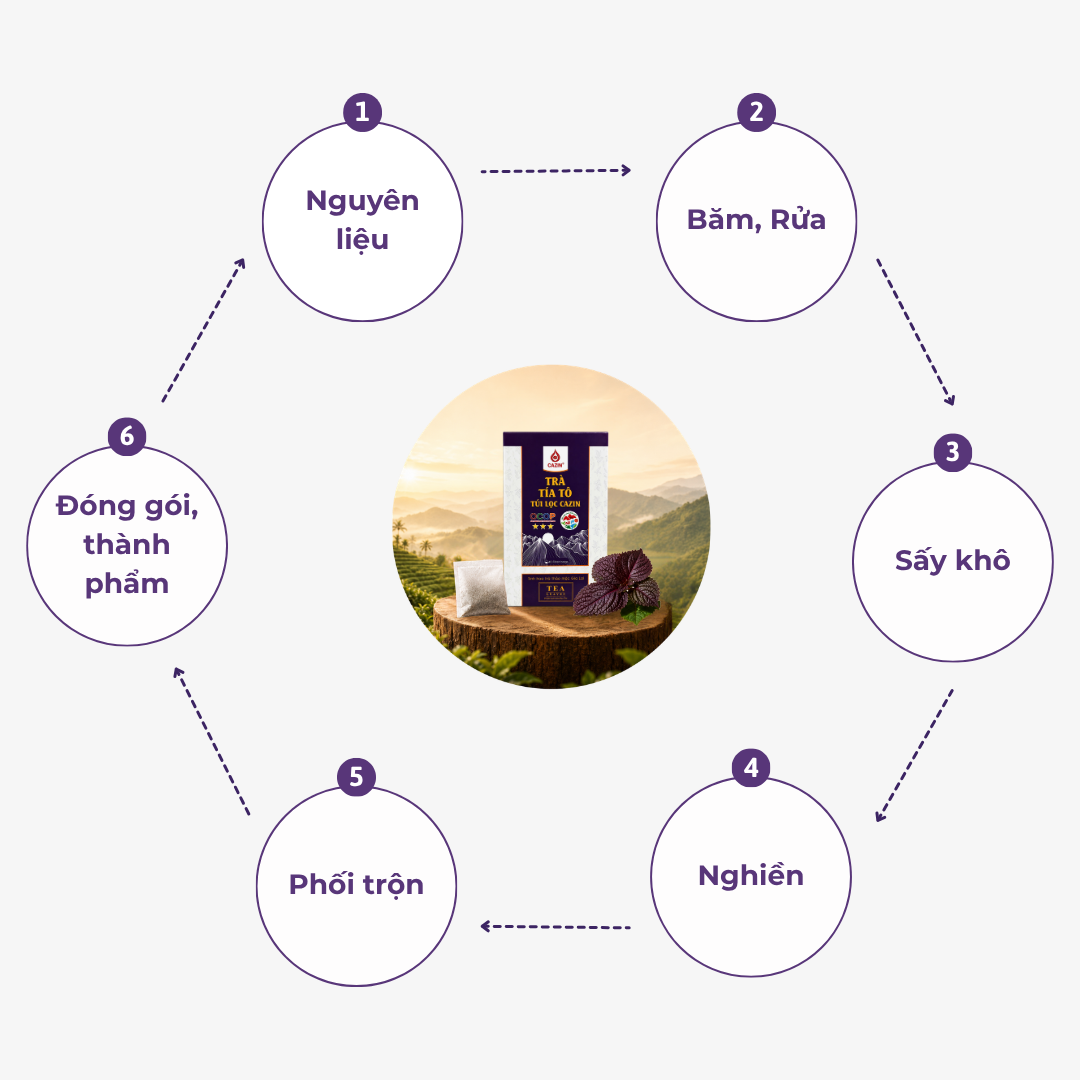
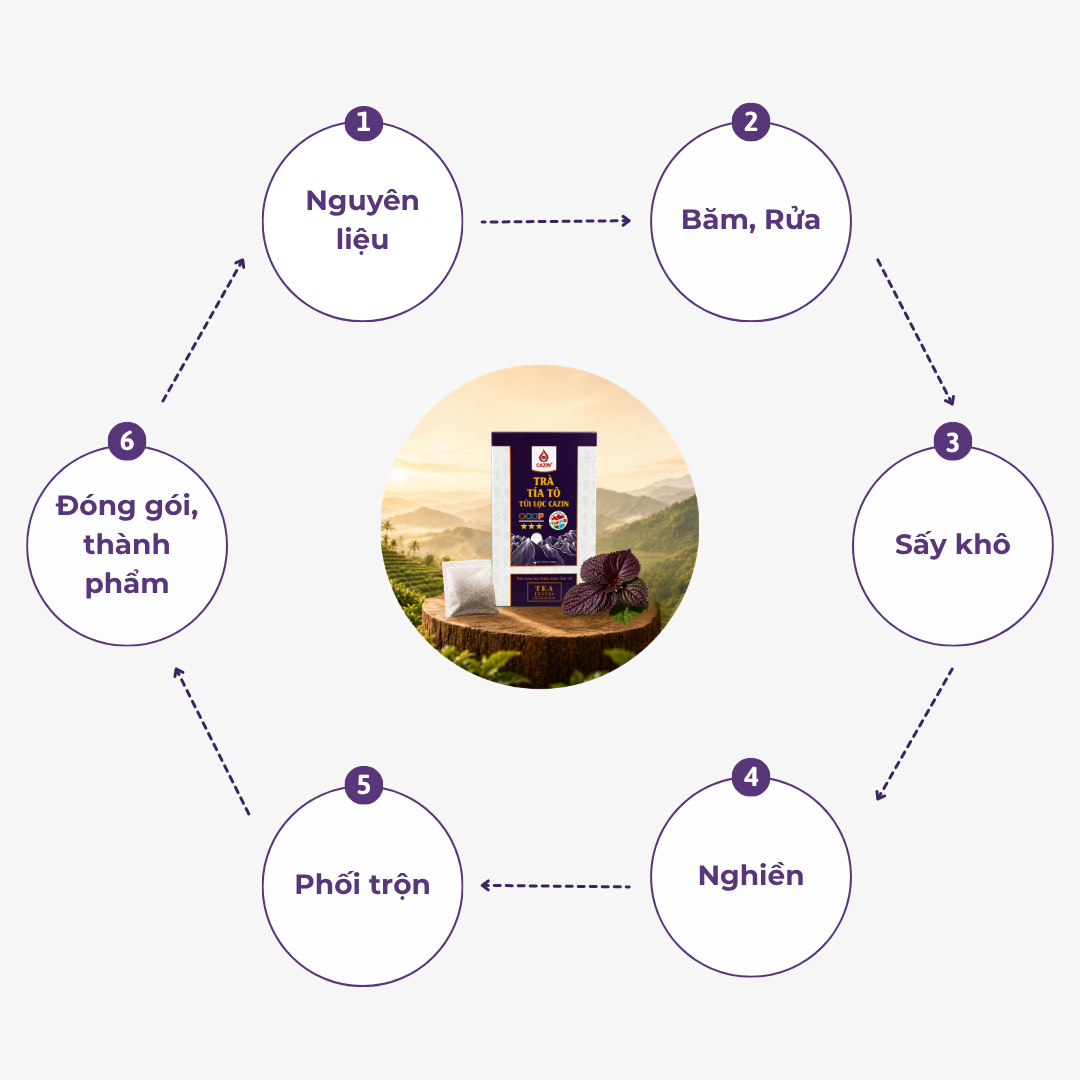
deploy 9

diff --git a/src/components/ProductInfo.tsx b/src/components/ProductInfo.tsx
@@ -4,116 +4,188 @@ import React from "react";
 
 export default function ProductInfo() {
   return (
-    <section className="w-full px-5 py-6 md:py-10 animate-fade-in-up" style={{ animationDelay: '100ms', animationFillMode: 'both' }}>
+    <section
+      className="w-full px-5 py-6 md:py-10 animate-fade-in-up"
+      style={{ animationDelay: "100ms", animationFillMode: "both" }}
+    >
       <div className="max-w-7xl mx-auto">
-        
         {/* Khối 2: Thông tin cơ bản */}
         <div className="mb-8">
           <h1 className="text-2xl md:text-4xl font-bold text-primary mb-4">
             TRÀ TÍA TÔ TÚI LỌC CAZIN
           </h1>
-          
+
           <div className="mb-8">
             <p className="text-textMain font-normal not-italic text-base md:text-[17px] leading-relaxed text-justify mb-3">
-              Trà tía tô túi lọc CAZIN là sự kết tinh từ nguồn dược liệu tuyển chọn tại Gia Lai, kết hợp hài hòa giữa tía tô, sả và gừng, mang hương thơm thanh dịu và vị ấm tự nhiên đặc trưng. Được chế biến từ 100% nguyên liệu tự nhiên, không hương liệu, không chất bảo quản, sản phẩm mang đến trải nghiệm thưởng trà tiện lợi và chất lượng.
+              Trà tía tô túi lọc CAZIN là sự kết tinh từ nguồn dược liệu tuyển
+              chọn tại Gia Lai, kết hợp hài hòa giữa tía tô, sả và gừng, mang
+              hương thơm thanh dịu và vị ấm tự nhiên đặc trưng. Được chế biến từ
+              100% nguyên liệu tự nhiên, không hương liệu, không chất bảo quản,
+              sản phẩm mang đến trải nghiệm thưởng trà tiện lợi và chất lượng.
             </p>
             <p className="text-textMain font-normal not-italic text-base md:text-[17px] leading-relaxed text-justify">
-              Mỗi tách trà không chỉ lưu giữ tinh túy của thảo mộc Việt, mà còn gửi gắm giá trị của vùng đất Gia Lai và mang tinh hoa trà thảo mộc Gia Lai đến với người tiêu dùng.
+              Mỗi tách trà không chỉ lưu giữ tinh túy của thảo mộc Việt, mà còn
+              gửi gắm giá trị của vùng đất Gia Lai và mang tinh hoa trà thảo mộc
+              Gia Lai đến với người tiêu dùng.
             </p>
           </div>
 
           {/* Thành phần */}
           <div className="mb-6">
-            <h3 className="font-semibold text-primary mb-2 text-lg">Thành phần:</h3>
-            <p className="text-textMain text-base">Tía tô 80% (thân và lá), Sả 10%, Gừng 10%.</p>
+            <h3 className="font-semibold text-primary mb-2 text-lg">
+              Thành phần:
+            </h3>
+            <p className="text-textMain text-base">
+              Tía tô 80% (thân và lá), Sả 10%, Gừng 10%.
+            </p>
           </div>
 
           {/* Grid thông số */}
           <div className="grid grid-cols-2 md:grid-cols-3 gap-4 bg-white/50 p-6 rounded-2xl shadow-md hover:shadow-lg transition-shadow duration-300 border border-white/50">
             <div className="flex flex-col">
-              <span className="text-base font-semibold text-primary mb-1">Khối lượng tịnh</span>
+              <span className="text-base font-semibold text-primary mb-1">
+                Khối lượng tịnh
+              </span>
               <span className="text-textMain text-[15px] font-normal">80g</span>
             </div>
             <div className="flex flex-col">
-              <span className="text-base font-semibold text-primary mb-1">Hạn sử dụng</span>
-              <span className="text-textMain text-[15px] font-normal">12 tháng</span>
+              <span className="text-base font-semibold text-primary mb-1">
+                Hạn sử dụng
+              </span>
+              <span className="text-textMain text-[15px] font-normal">
+                12 tháng
+              </span>
             </div>
             <div className="col-span-2 md:col-span-1 flex flex-col pt-2 md:pt-0 border-t md:border-t-0 md:border-l border-primary/10 md:pl-4">
-              <span className="text-base font-semibold text-primary mb-1">Quy cách</span>
-              <span className="text-textMain text-[15px] font-normal">40 túi lọc × 2g/hộp</span>
+              <span className="text-base font-semibold text-primary mb-1">
+                Quy cách
+              </span>
+              <span className="text-textMain text-[15px] font-normal">
+                40 túi lọc × 2g/hộp
+              </span>
             </div>
             <div className="col-span-2 md:col-span-3 flex flex-col pt-2 border-t border-primary/10">
-              <span className="text-base font-semibold text-primary mb-1">Chất liệu bao bì</span>
-              <span className="text-textMain text-[15px] font-normal">Túi lọc giấy; hộp giấy cứng đảm bảo an toàn dùng trong thực phẩm.</span>
+              <span className="text-base font-semibold text-primary mb-1">
+                Chất liệu bao bì
+              </span>
+              <span className="text-textMain text-[15px] font-normal">
+                Túi lọc giấy; hộp giấy cứng đảm bảo an toàn dùng trong thực
+                phẩm.
+              </span>
             </div>
           </div>
         </div>
 
         {/* Khối 3: Thông tin chi tiết (Static List) */}
         <div className="flex flex-col space-y-8 mt-10">
-          
           {/* 1. Thông tin nguyên liệu */}
           <div>
-            <h3 className="font-semibold text-lg text-primary mb-3">Thông tin nguyên liệu</h3>
+            <h3 className="font-semibold text-lg text-primary mb-3">
+              Thông tin nguyên liệu
+            </h3>
             <p className="text-textMain text-[15px] leading-relaxed">
-              Tía tô, sả và gừng được thu mua từ các vùng nguyên liệu tại Canh Vinh, An Khê và các vùng lân cận thuộc tỉnh Gia Lai.
+              Tía tô, sả và gừng được thu mua từ các vùng nguyên liệu tại Canh
+              Vinh, An Khê và các vùng lân cận thuộc tỉnh Gia Lai.
             </p>
           </div>
 
           {/* 2. Công dụng nổi bật */}
           <div>
-            <h3 className="font-semibold text-lg text-primary mb-3">Công dụng nổi bật</h3>
+            <h3 className="font-semibold text-lg text-primary mb-3">
+              Công dụng nổi bật
+            </h3>
             <ul className="list-none p-0 m-0 space-y-2">
-              <li className="text-textMain text-[15px]">Tăng cường sức đề kháng</li>
+              <li className="text-textMain text-[15px]">
+                Tăng cường sức đề kháng
+              </li>
               <li className="text-textMain text-[15px]">Giảm ho, tiêu đờm</li>
               <li className="text-textMain text-[15px]">Dưỡng nhan, sáng da</li>
               <li className="text-textMain text-[15px]">Hỗ trợ gout</li>
-              <li className="text-textMain text-[15px]">Giải độc gan, giảm mỡ máu</li>
+              <li className="text-textMain text-[15px]">
+                Giải độc gan, giảm mỡ máu
+              </li>
             </ul>
           </div>
 
           {/* 3. Hướng dẫn sử dụng */}
           <div>
-            <h3 className="font-semibold text-lg text-primary mb-3">Hướng dẫn sử dụng</h3>
+            <h3 className="font-semibold text-lg text-primary mb-3">
+              Hướng dẫn sử dụng
+            </h3>
             <div className="space-y-3">
-              <p className="text-textMain text-[15px]">Dùng 1 túi trà 2g cho mỗi lần pha.</p>
-              
+              <p className="text-textMain text-[15px]">
+                Dùng 1 túi trà 2g cho mỗi lần pha.
+              </p>
+
               <div>
-                <p className="text-textMain text-[15px] font-semibold mb-1">Uống nóng</p>
-                <p className="text-textMain text-[15px]">Ngâm 01 túi trà với 120ml nước nóng trong 5 phút.</p>
+                <p className="text-textMain text-[15px] font-semibold mb-1">
+                  Uống nóng
+                </p>
+                <p className="text-textMain text-[15px]">
+                  Ngâm 01 túi trà với 120ml nước nóng trong 5 phút.
+                </p>
               </div>
-              
+
               <div>
-                <p className="text-textMain text-[15px] font-semibold mb-1">Uống lạnh</p>
-                <p className="text-textMain text-[15px]">Ngâm 01 túi trà với 90ml nước nóng trong 5 phút, thêm đá tùy khẩu vị.</p>
+                <p className="text-textMain text-[15px] font-semibold mb-1">
+                  Uống lạnh
+                </p>
+                <p className="text-textMain text-[15px]">
+                  Ngâm 01 túi trà với 90ml nước nóng trong 5 phút, thêm đá tùy
+                  khẩu vị.
+                </p>
               </div>
             </div>
           </div>
 
           {/* 4. Lưu ý & Bảo quản */}
           <div>
-            <h3 className="font-semibold text-lg text-primary mb-3">Lưu ý & Bảo quản</h3>
-            <div className="space-y-2">
+            <h3 className="font-semibold text-lg text-primary mb-3">
+              Lưu ý & Bảo quản
+            </h3>
+            <div className="space-y-3">
+              {/* Phần Bảo quản */}
               <p className="text-textMain text-[15px]">
-                <span className="font-semibold">Bảo quản:</span> Để nơi khô ráo, thoáng mát.
+                <span className="font-semibold">Bảo quản:</span> Để nơi khô ráo,
+                thoáng mát.
               </p>
-              <p className="text-textMain text-[15px]">
-                <span className="font-semibold">Khuyến cáo:</span> Không sử dụng khi sản phẩm có dấu hiệu ẩm mốc, biến màu hoặc có mùi lạ. Không sử dụng hương liệu, chất bảo quản.
-              </p>
+
+              {/* Phần Khuyến cáo thiết kế lại với dạng list */}
+              <div className="text-textMain text-[15px]">
+                <span className="font-semibold">Khuyến cáo:</span>
+                <ul className="list-disc pl-5 mt-1 space-y-1">
+                  <li>
+                    Không sử dụng khi sản phẩm có dấu hiệu ẩm mốc, biến màu hoặc
+                    có mùi lạ.
+                  </li>
+                  <li>Không sử dụng hương liệu, chất bảo quản.</li>
+                </ul>
+              </div>
             </div>
           </div>
 
           {/* 5. Thông tin truy xuất */}
           <div>
-            <h3 className="font-semibold text-lg text-primary mb-3">Thông tin truy xuất</h3>
+            <h3 className="font-semibold text-lg text-primary mb-3">
+              Thông tin truy xuất
+            </h3>
             <div className="space-y-2">
-              <p className="text-textMain text-[15px]"><span className="font-semibold">Ngày sản xuất:</span> Xem trên bao bì</p>
-              <p className="text-textMain text-[15px]"><span className="font-semibold">Số bản tự công bố:</span> 03/NCD/2023</p>
-              <p className="text-textMain text-[15px]"><span className="font-semibold">TCCS:</span> 04:2023</p>
-              <p className="text-textMain text-[15px]"><span className="font-semibold">Xuất xứ:</span> Việt Nam</p>
+              <p className="text-textMain text-[15px]">
+                <span className="font-semibold">Ngày sản xuất:</span> Xem trên
+                bao bì
+              </p>
+              <p className="text-textMain text-[15px]">
+                <span className="font-semibold">Số bản tự công bố:</span>{" "}
+                03/NCD/2023
+              </p>
+              <p className="text-textMain text-[15px]">
+                <span className="font-semibold">TCCS:</span> 04:2023
+              </p>
+              <p className="text-textMain text-[15px]">
+                <span className="font-semibold">Xuất xứ:</span> Việt Nam
+              </p>
             </div>
           </div>
-
         </div>
       </div>
     </section>